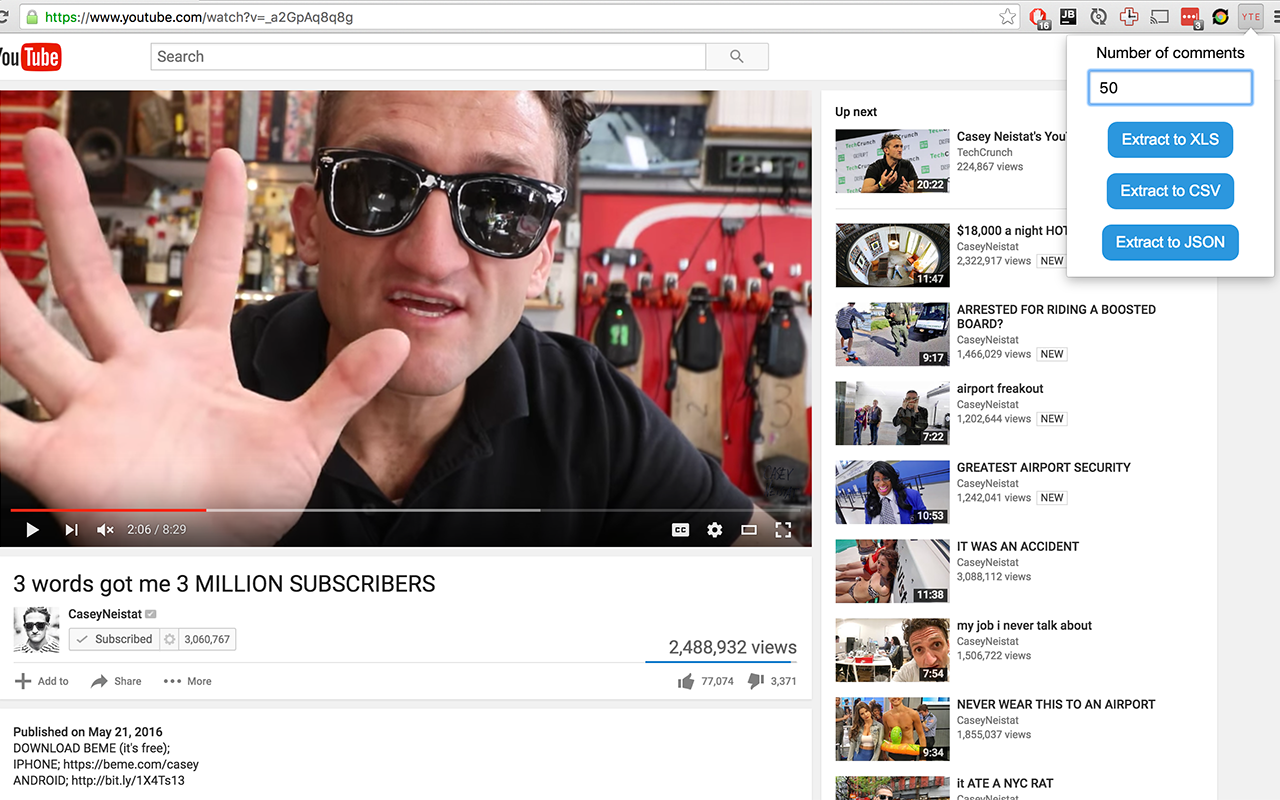
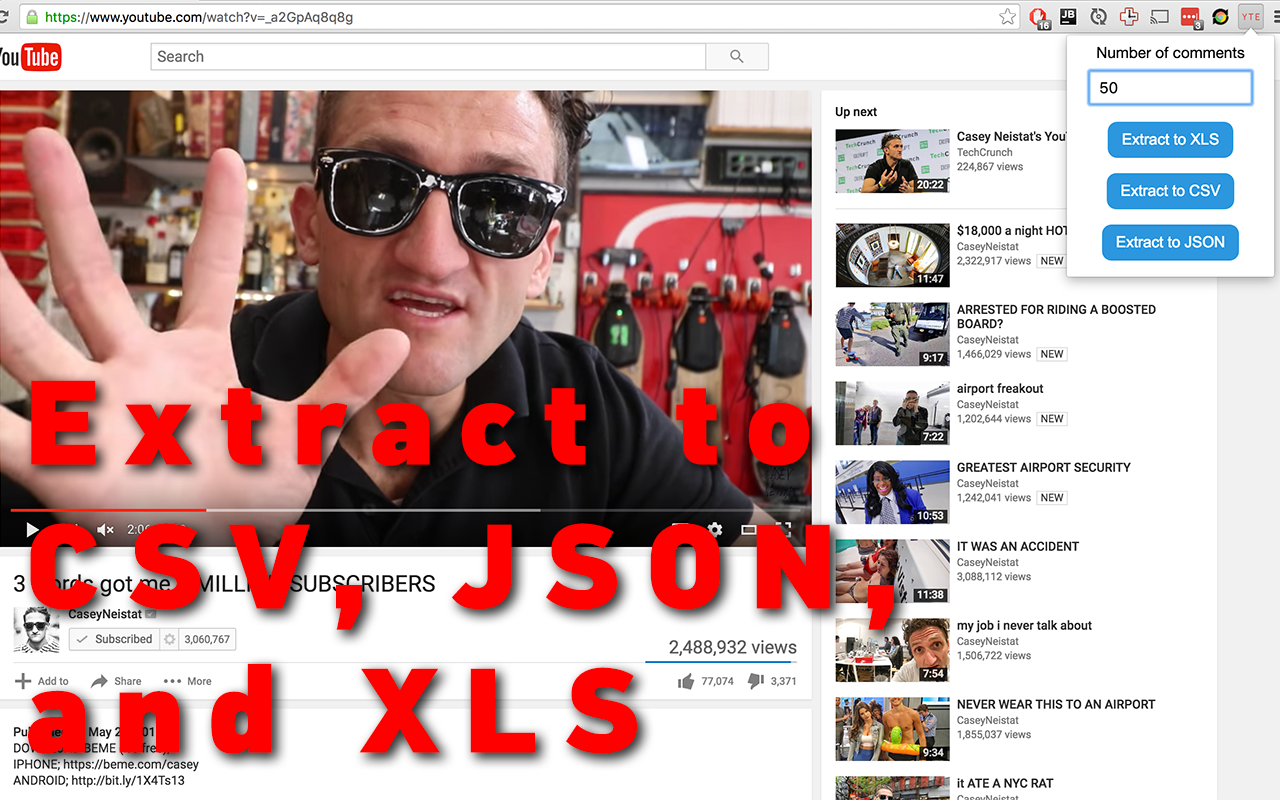
Update screenshot and add more data fields

diff --git a/content_script.js b/content_script.js
@@ -6,6 +6,7 @@ var CommentExporter = function(request, sendResponse) {
     var startTime = 0;
     var fileType = 'xlsx';
     var filenamePrefix = 'YouTubeComments';
+    var videoId;
 
     function extractComments(comments) {
         var now = Math.floor(Date.now() / 1000);
@@ -37,7 +38,8 @@ var CommentExporter = function(request, sendResponse) {
     function startExtracting(request) {
         numToExtract = parseInt(request.num);
         fileType = request.fileType;
-
+        videoId = $("meta[itemprop='videoId']")[0].attributes.content.value;
+        
         chrome.storage.sync.set({'numToExtract': numToExtract}, function() {
             console.log("Extracting " + numToExtract + ' comments to ' + fileType);
 
@@ -100,11 +102,10 @@ var CommentExporter = function(request, sendResponse) {
     function exportToFile(items, fileType) {
         fileType = fileType || 'xlsx';
         var contentType = 'application/octet-stream', wbout;
-        var videoId = $("meta[itemprop='videoId']")[0].attributes.content.value;
 
         var oo = [
             [
-                ['Username', 'Comment'],
+                ['VideoID', 'Username', 'YTID', 'Comment'],
             ],
             []
         ];
@@ -113,9 +114,11 @@ var CommentExporter = function(request, sendResponse) {
 
         $.each(items, function (k, v) {
             var item = $(v);
-            var author = $(".comment-author-text", item).text();
+            var authorEl = $(".comment-author-text", item);
+            var author = authorEl.text();
+            var ytid = authorEl.attr('data-ytid');
             var comment = $(".comment-renderer-text-content", item).text();
-            oo[0].push([author, comment]);
+            oo[0].push([videoId, author, ytid, comment]);
         });
 
         /* original data */
